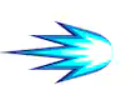
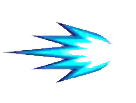
chuyen doi anh weopon 4 chieu

diff --git a/src/main/java/origin/Picture.java b/src/main/java/origin/Picture.java
@@ -4,8 +4,11 @@ import javax.imageio.ImageIO;
 import java.awt.*;
 import java.awt.geom.AffineTransform;
 import java.awt.image.BufferedImage;
+import java.awt.image.DataBufferInt;
+import java.awt.image.Raster;
 import java.io.File;
 import java.io.IOException;
+import java.nio.Buffer;
 
 public class Picture {
     public static String resourcePath = EnvironmentConfig.PATHRESOUREASSET;
@@ -18,7 +21,7 @@ public class Picture {
     public static BufferedImage waterShotImage;
 
     static {
-        normalShotImage = Picture.loadImage("/ball.png");
+        normalShotImage = eraserBackgroundImage(Picture.loadImage("/ball.png"),0xFFFFFFFF);
 
         earthShotImage = Picture.loadImage("/earthball.png");
         fireShotImage = Picture.loadImage("/fireball.jpg");
@@ -33,7 +36,7 @@ public class Picture {
         try {
             BufferedImage loadedImage = ImageIO.read(new File(resourcePath+path));
             BufferedImage formatImage = new BufferedImage(loadedImage.getWidth(),
-                    loadedImage.getHeight(),BufferedImage.TYPE_INT_RGB);
+                    loadedImage.getHeight(),BufferedImage.TYPE_INT_ARGB);
 
             formatImage.getGraphics().drawImage(loadedImage,0,0,null);
 
@@ -43,6 +46,17 @@ public class Picture {
             e.printStackTrace();
             return null;
         }
+    }
+    public static BufferedImage eraserBackgroundImage(BufferedImage image,int rgb){
+        int[] data = ((DataBufferInt)image.getRaster().getDataBuffer()).getData();
+
+        for (int i = 0;i<data.length;i++){
+            if (data[i] == rgb){
+                data[i] = 0;
+//                System.out.print(""+data[i]);
+            }
+        }
+        return image;
     }
     public static BufferedImage flipVertical(BufferedImage image) {
         BufferedImage buffer = new BufferedImage(image.getWidth(), image.getHeight(), BufferedImage.TYPE_INT_ARGB);
